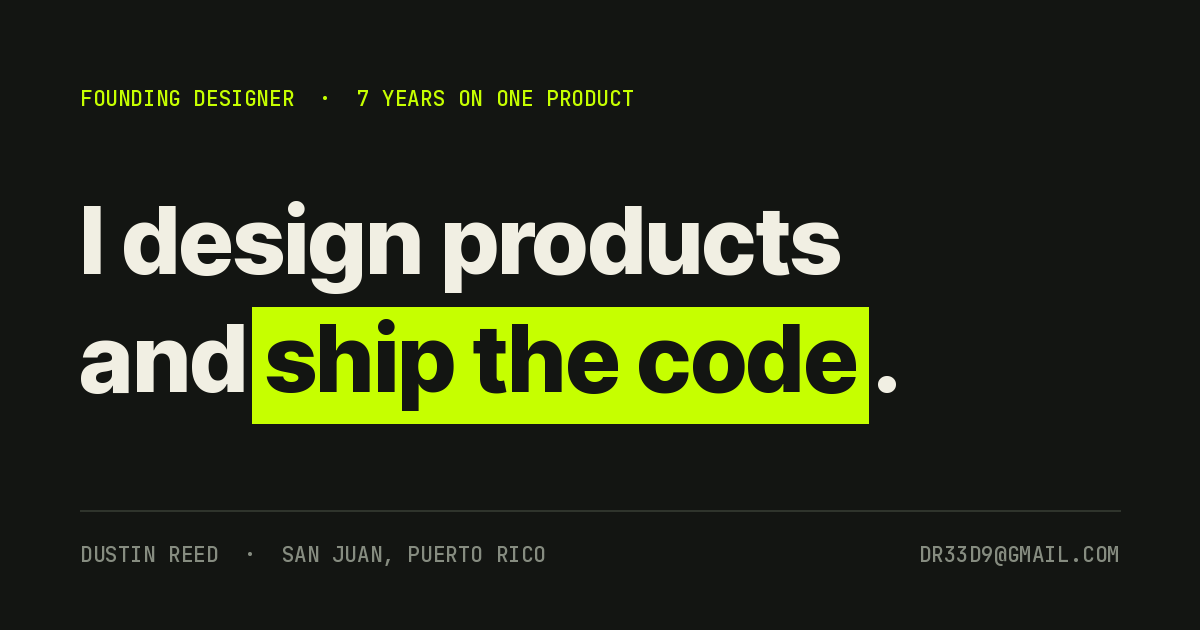
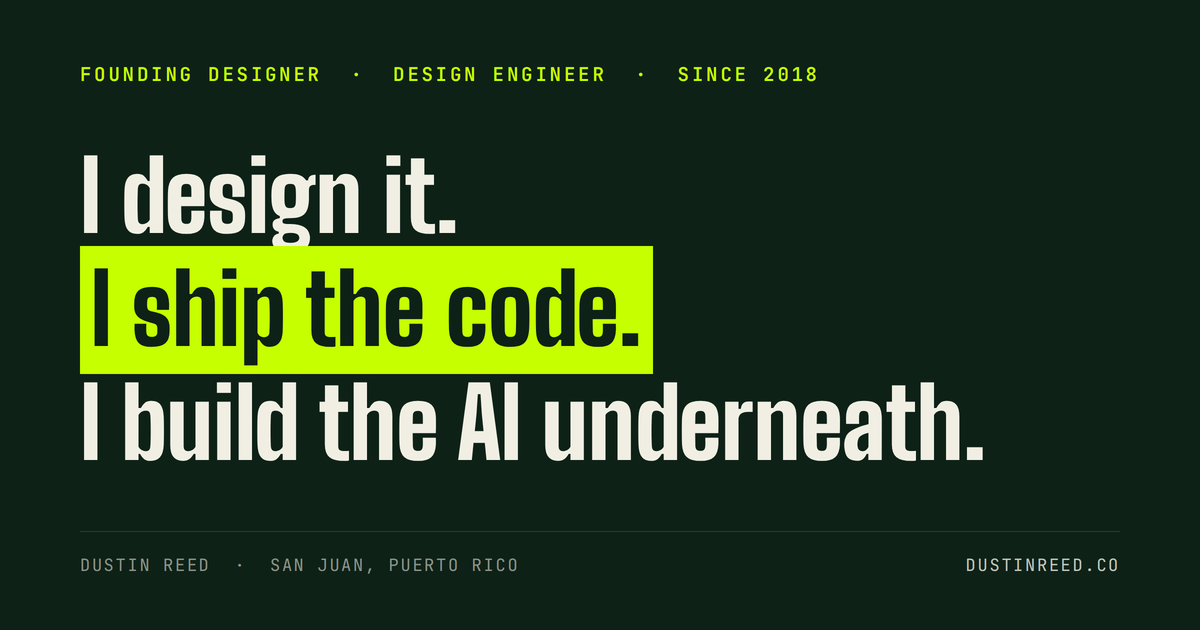
fix: the share card was advertising a number that expires
The old og.png led with '7 YEARS ON ONE PRODUCT'. That is the same expiring
claim already removed from the resume, the site and LinkedIn, and it was
sitting on the one asset that gets scraped and cached by every platform the
link is shared to. It also predated the AI line, so the card stated two of
the three things the rest of the material now claims, and it had an email
address baked into an image that spam crawlers read.

New card: same tokens, same fonts, three parallel statements with 'I ship
the code' carrying the highlight. Eyebrow is dated 'Since 2018' rather than
a count. Email replaced with the domain. Alt text follows.

Claude-Session: https://claude.ai/code/session_018KmZfB3zVW6k5Pn1LkK38w

diff --git a/src/app/layout.tsx b/src/app/layout.tsx
@@ -51,7 +51,7 @@ export const metadata: Metadata = {
     url: SITE_URL,
     siteName: "Dustin Reed",
     type: "website",
-    images: [{ url: "/og.png", width: 1200, height: 630, alt: "Dustin Reed — I design products and ship the code" }],
+    images: [{ url: "/og.png", width: 1200, height: 630, alt: "Dustin Reed. I design it, I ship the code, I build the AI underneath." }],
   },
   alternates: { canonical: "/" },
   twitter: {
